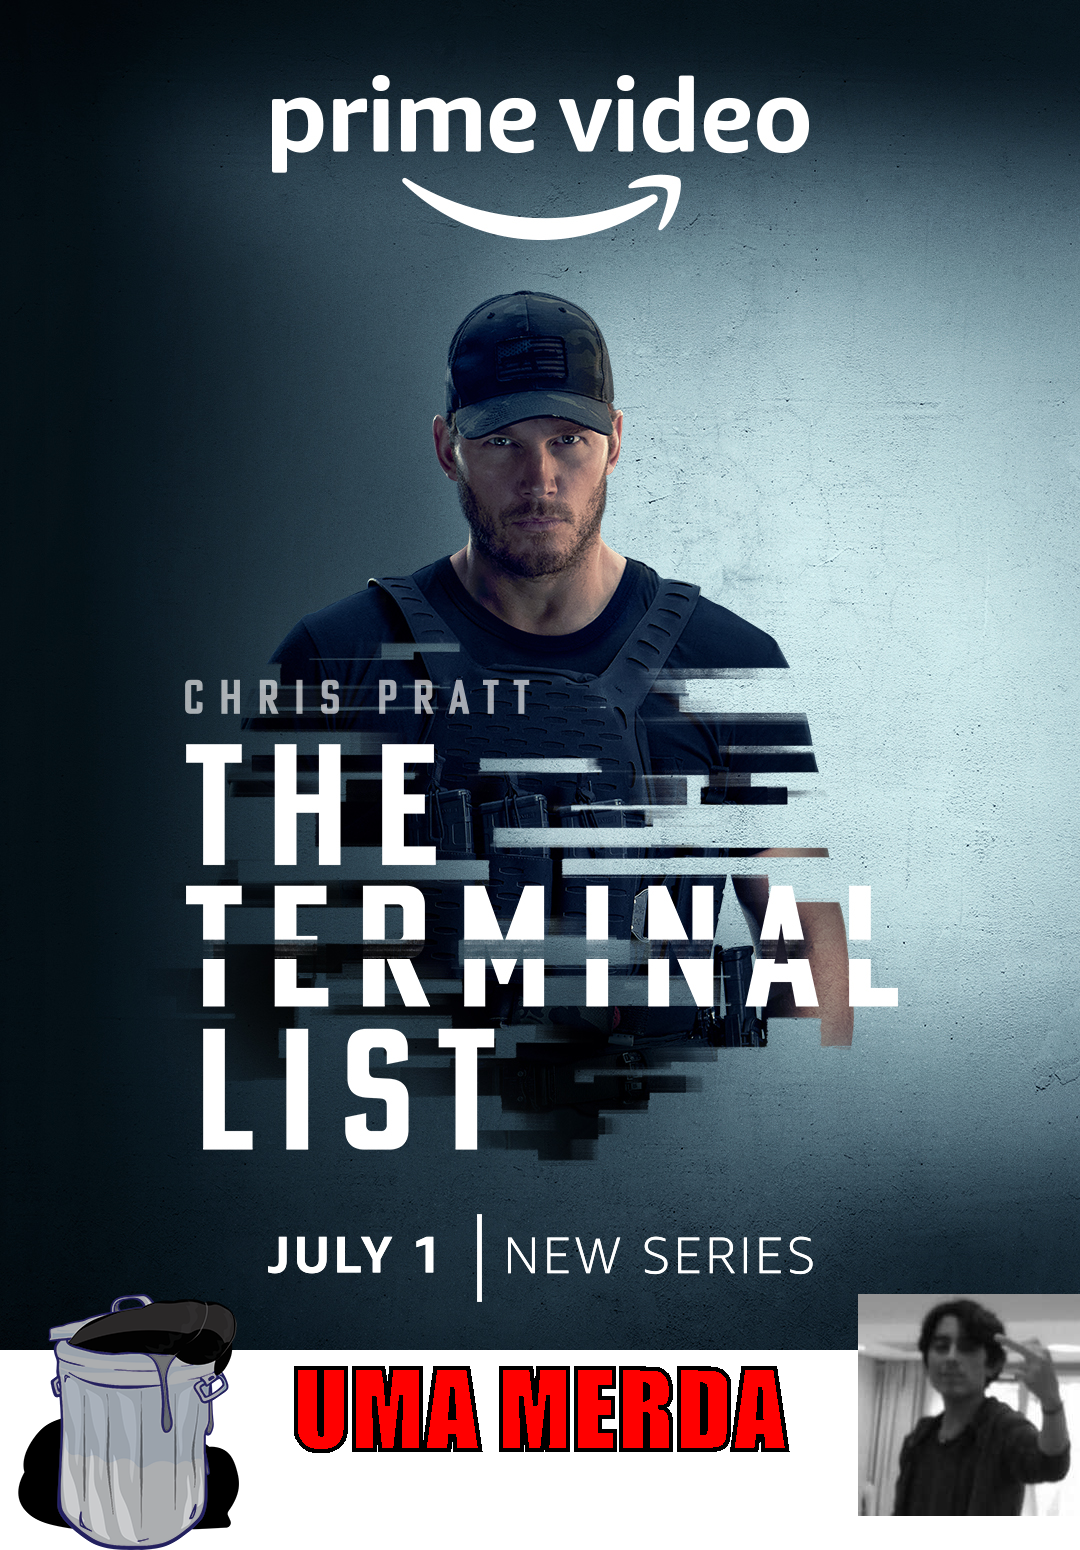
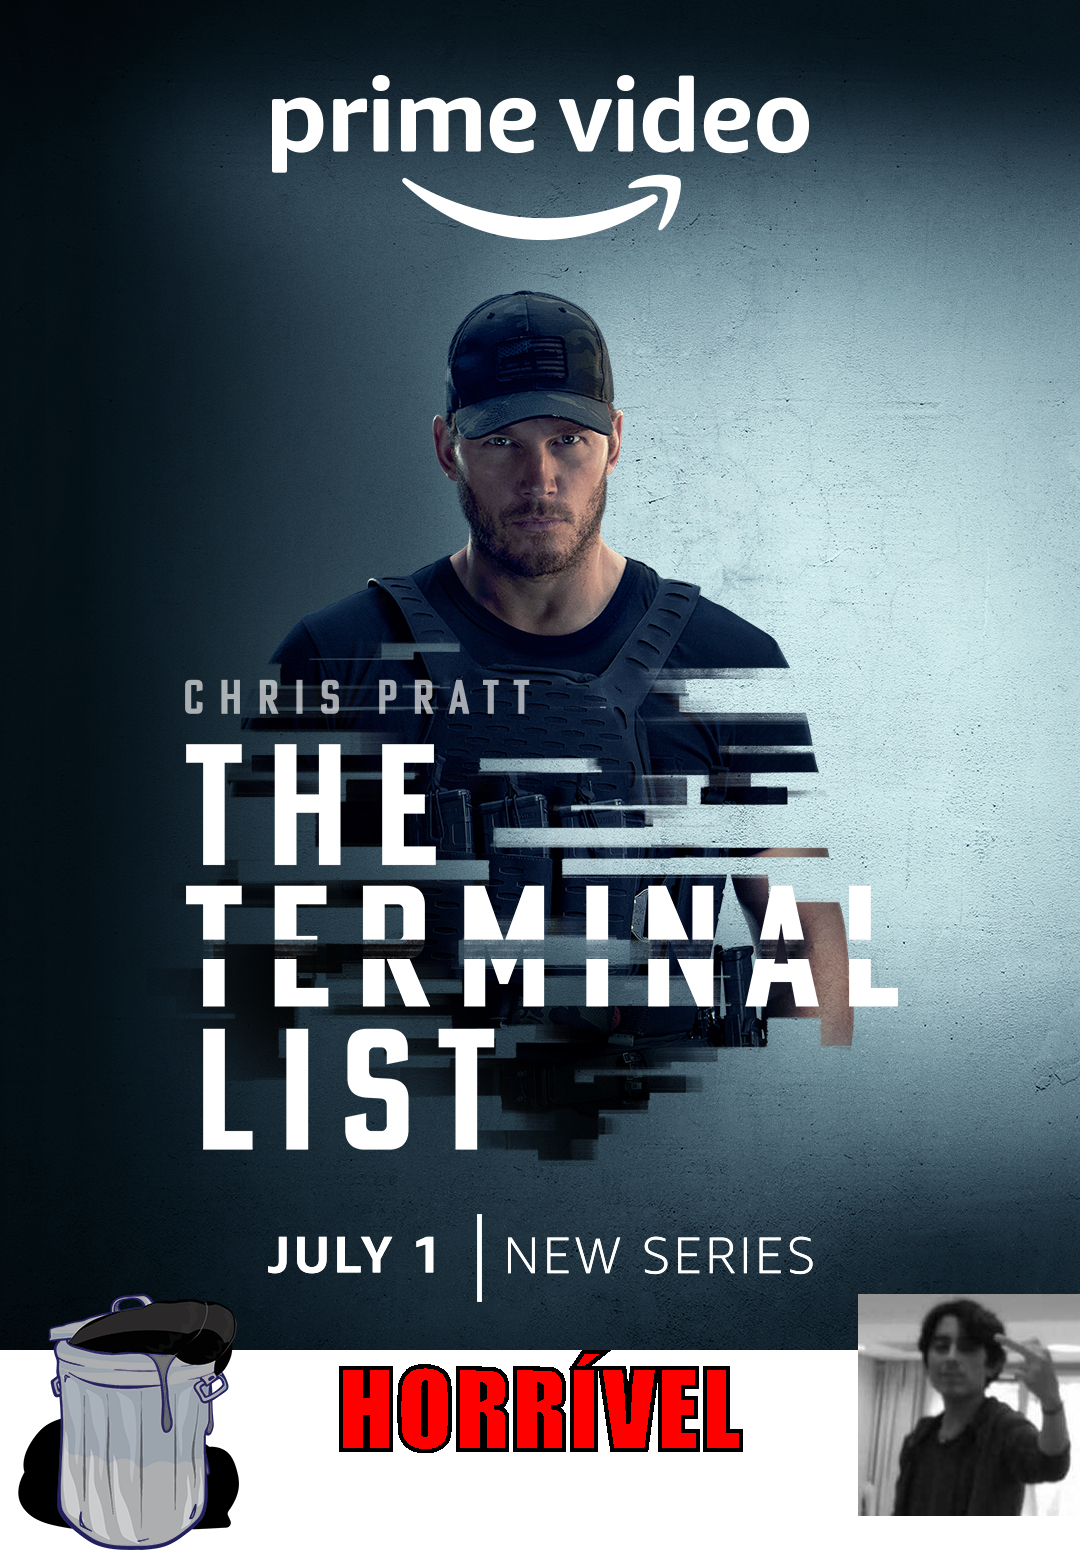
comecando aula 3

Changed region(s): [[0.275, 0.8671, 0.7333, 0.96]]

diff --git a/src/App.java b/src/App.java
@@ -63,7 +63,7 @@ public class App {
                 } else{
                     InputStream imagemAvaliacao = new FileInputStream(new File("sobreposicao/ruim.png"));
                     InputStream imagemPedro = new FileInputStream(new File("sobreposicao/umCoco.jpg"));
-                    geradorStickers.criar(filme.get("image"), filme.get("title"), "UMA MERDA", imagemAvaliacao, imagemPedro, Color.RED);
+                    geradorStickers.criar(filme.get("image"), filme.get("title"), "HORRÍVEL", imagemAvaliacao, imagemPedro, Color.RED);
                 }
             } else{
                 throw new RuntimeException("Opção Inexistente");

diff --git a/src/FiltradorLista.java b/src/FiltradorLista.java
@@ -5,8 +5,8 @@ public class FiltradorLista {
   
   public List<Map<String, String>> filtrarLista(String dadosAPI){
     JsonParser parser = new JsonParser();
-    List<Map<String, String>> listaDeFilmes = parser.parse(dadosAPI);
-    return listaDeFilmes;
+    List<Map<String, String>> listaDeConteudo = parser.parse(dadosAPI);
+    return listaDeConteudo;
 
   }
 

diff --git a/src/BuscadorAPI.java b/src/BuscadorAPI.java
@@ -13,6 +13,7 @@ public class BuscadorAPI {
     System.out.println("De qual API você deseja importar os dados? ");
     System.out.println("1- Séries | 2- Filmes");
     int opcao = cc.nextInt();
+    cc.close();
 
     String url;
     if(opcao == 1){

diff --git a/src/Conteudo.java b/src/Conteudo.java
@@ -1,0 +1,6 @@
+public class Conteudo {
+ 
+  private String titulo;
+  private String urlImagem;
+
+}
